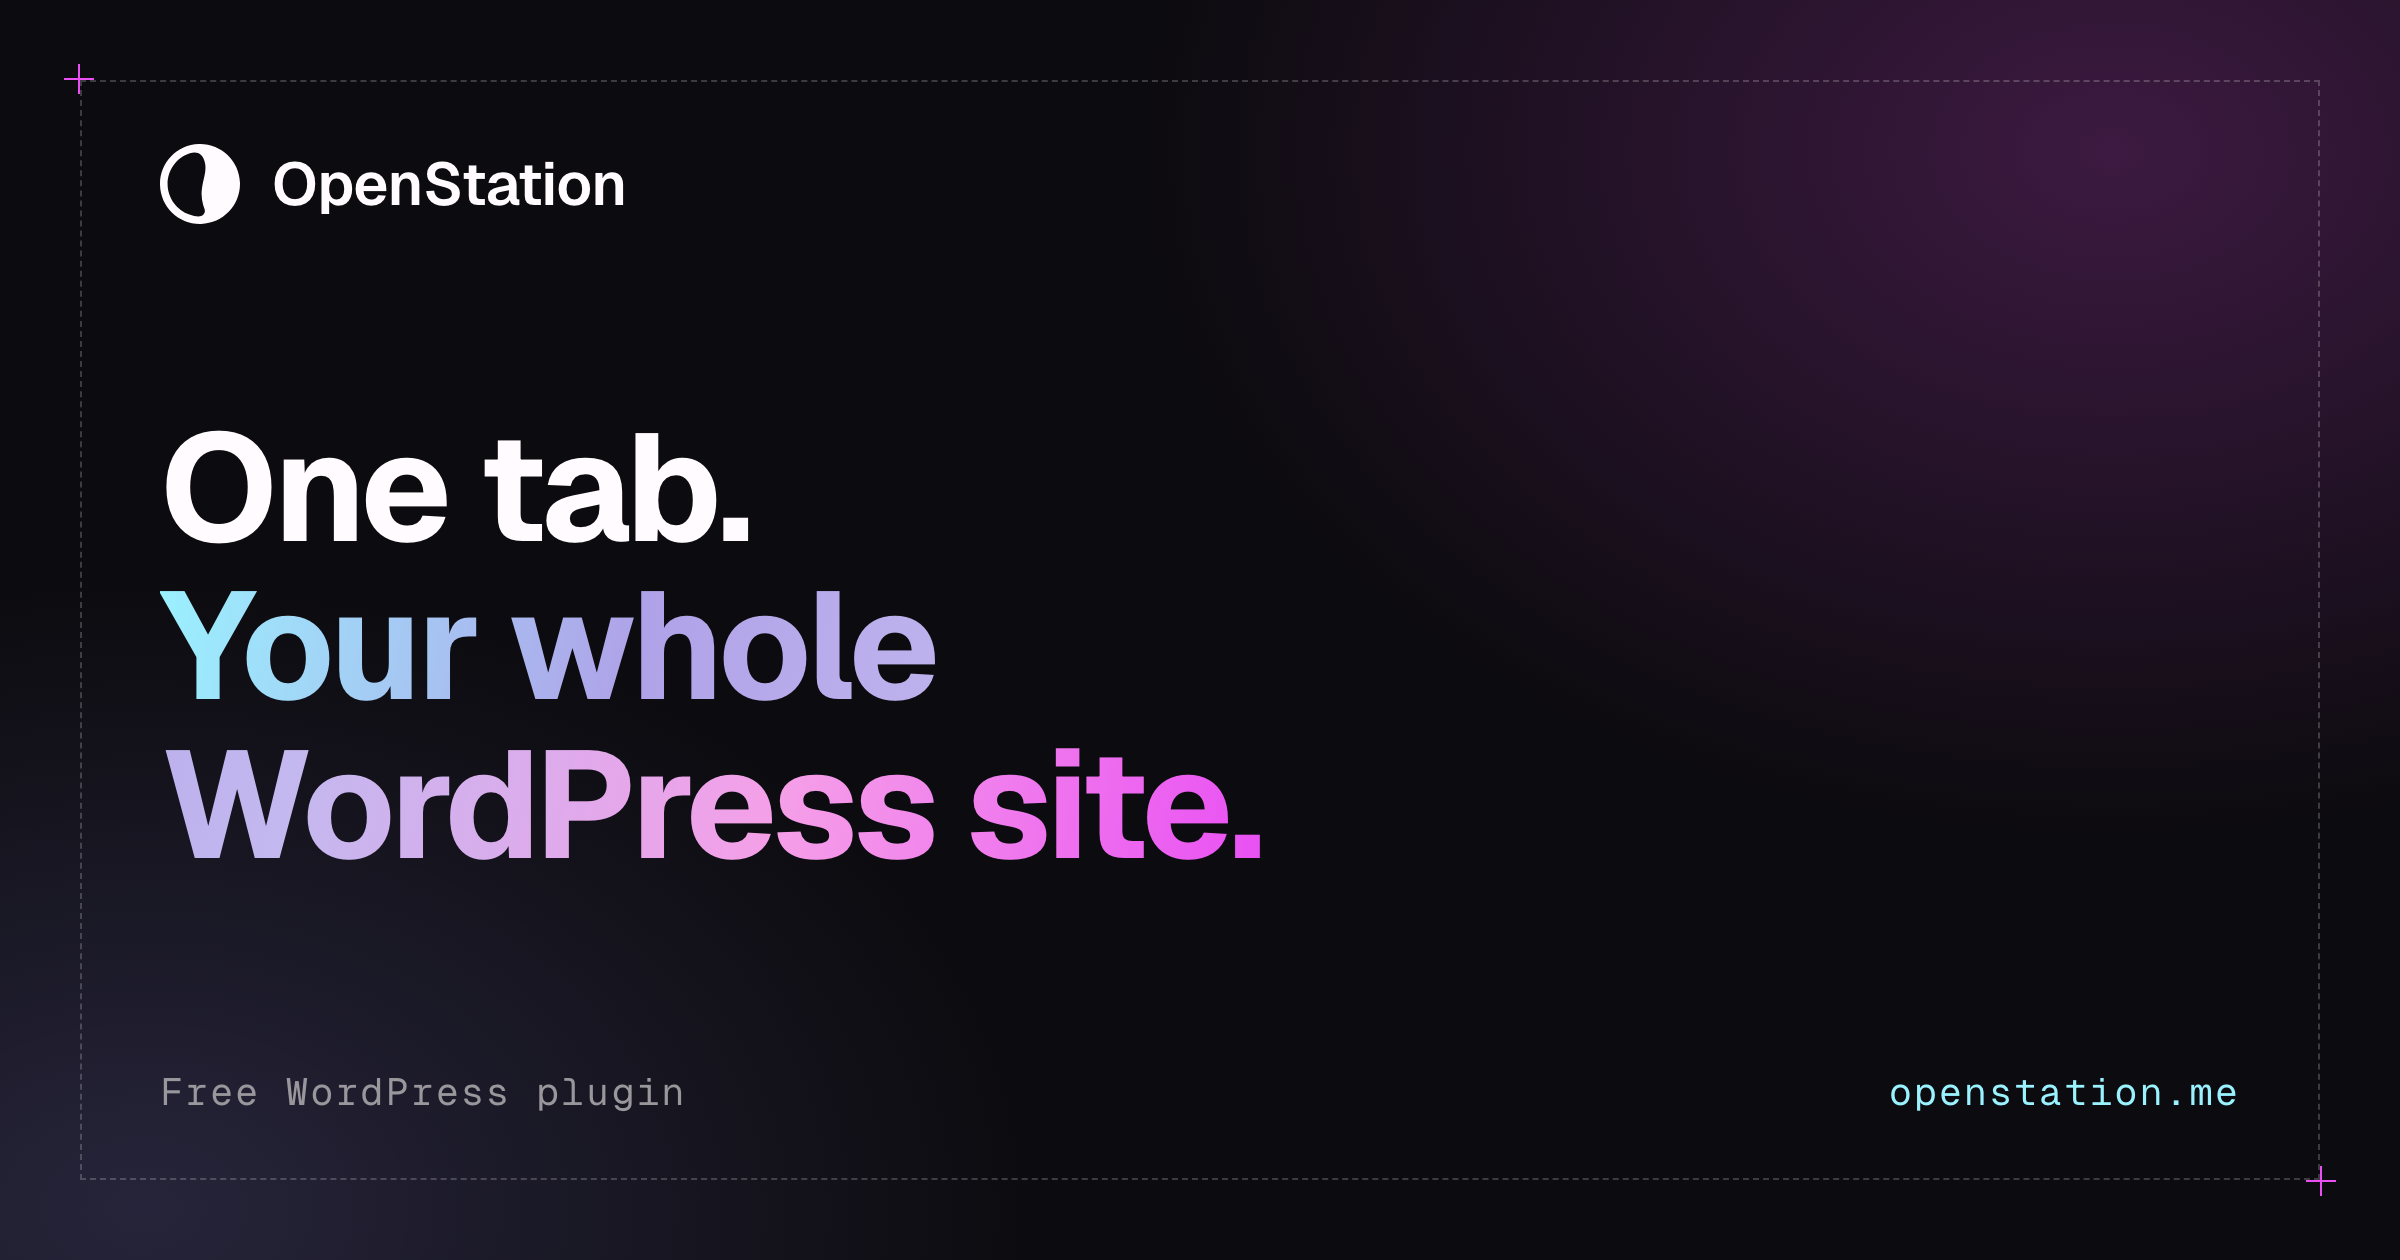
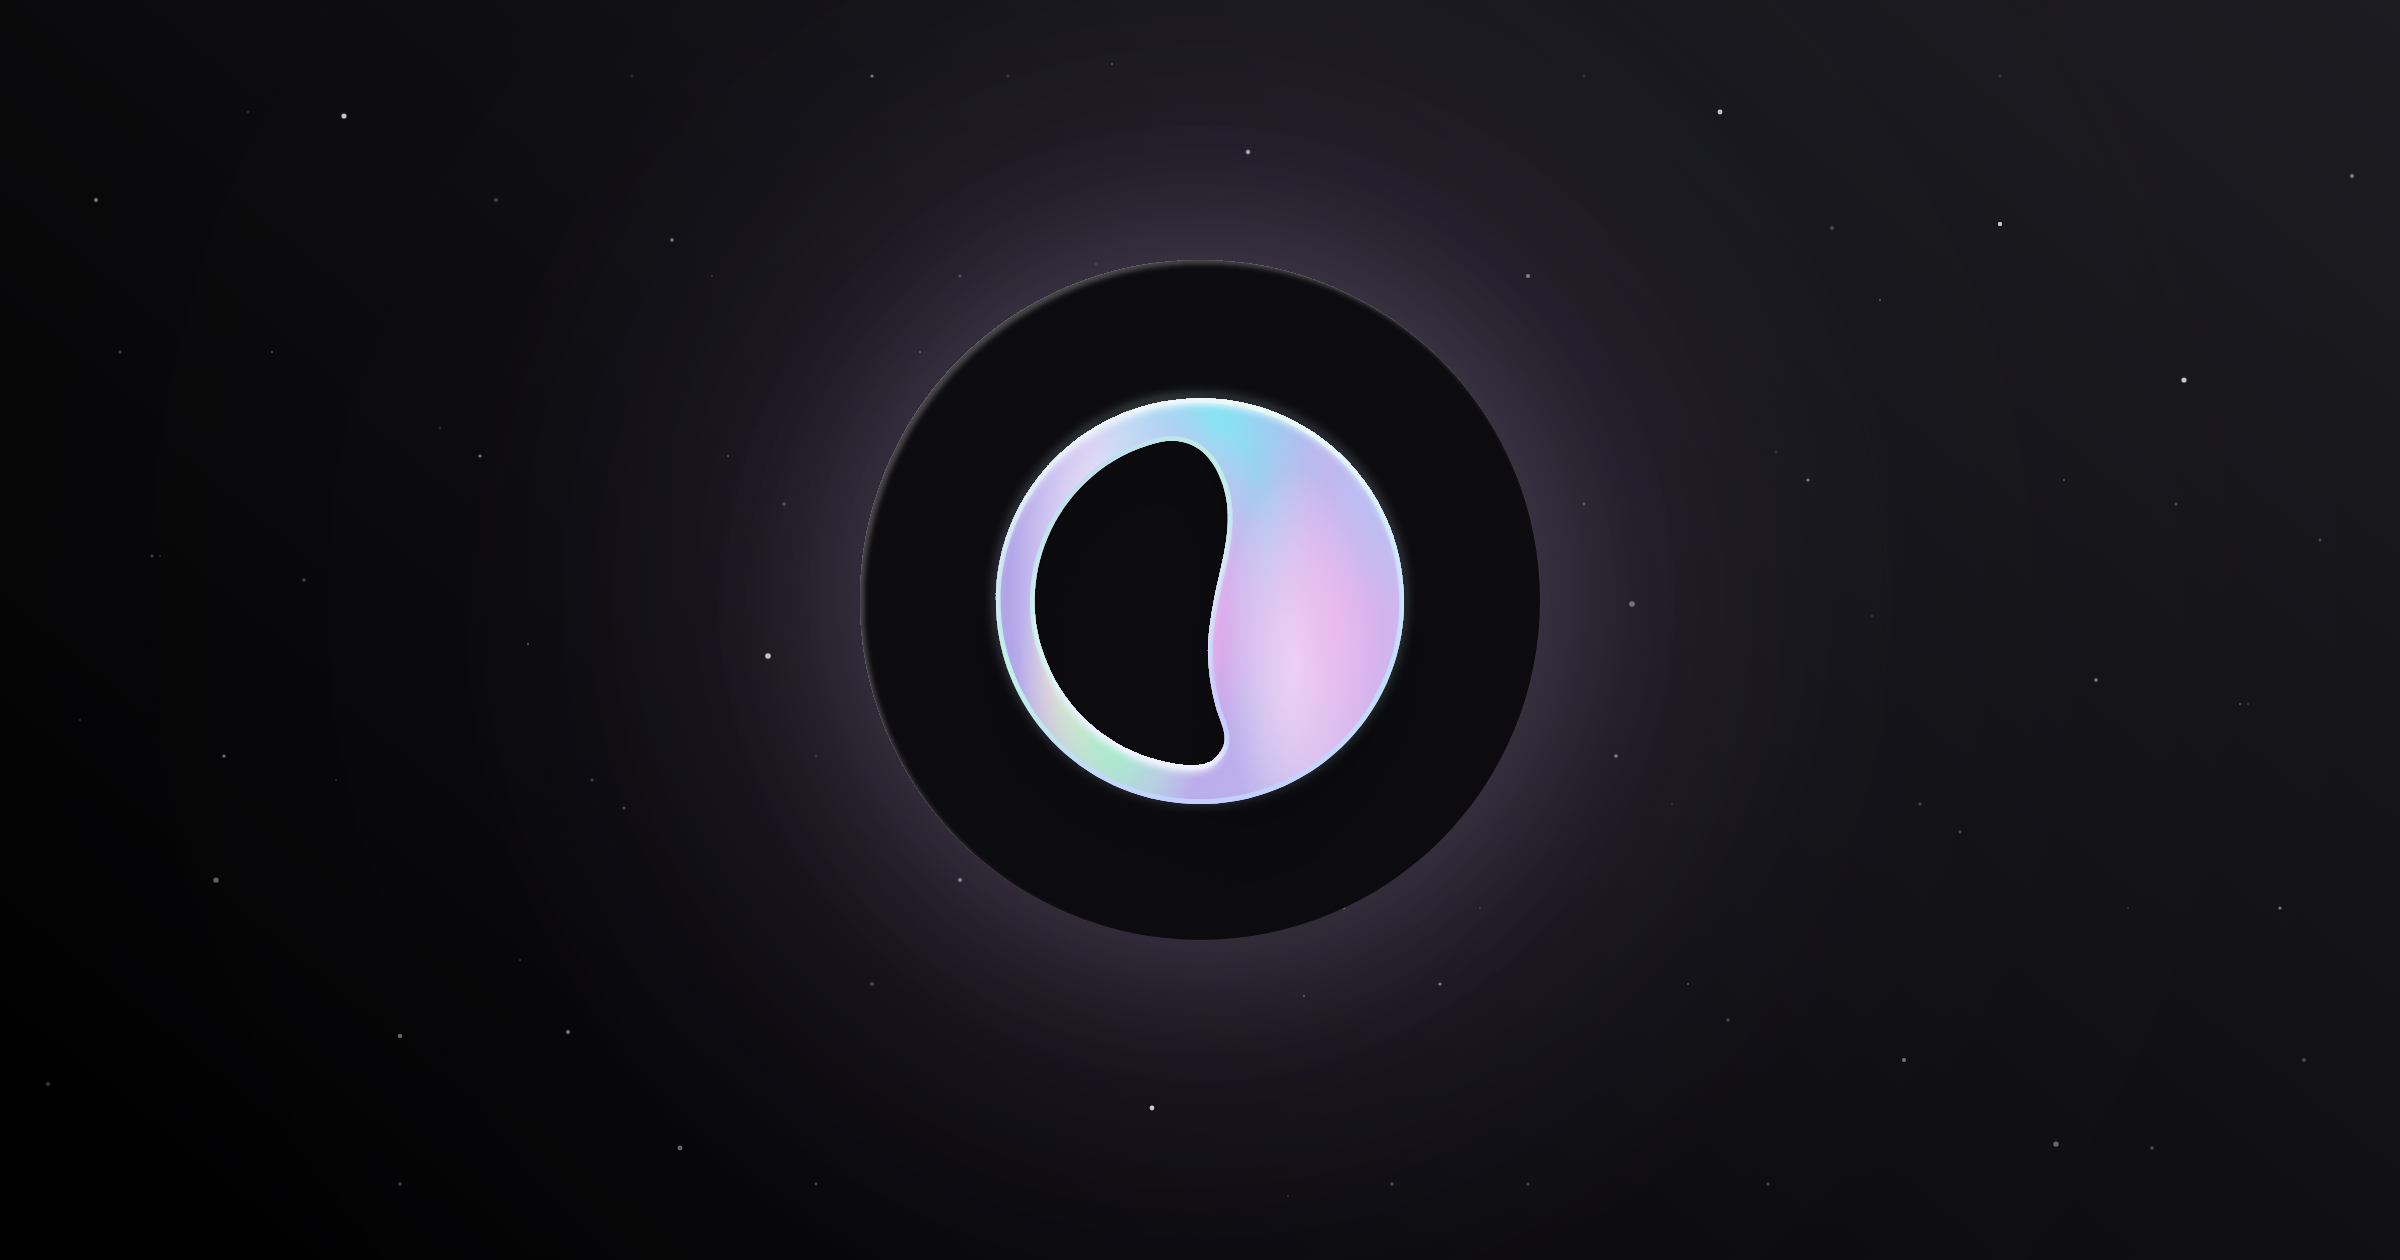
Redraw the social card as the chip alone on the galaxy
A link preview renders the image around 255px wide, and almost nothing on
the old card survived that: the 19px footer came out four pixels tall and
the 1px dashed rule a fifth of a pixel. The headline and the domain were
also both printed by the unfurl right next to the image, so half the card
was spent saying what the surrounding chrome already said.

This drops the words entirely and gives the whole frame to one big shape:
the shipped holo chip at 340px, centred on Voidmesh and a starfield, lit
from behind. The tile is opaque, so the only part of the halo that ever
shows is the ring past its edge, and that ring is what lifts it off the
background. On Void a drop shadow would do nothing.

The halo is three gaussian blurs rather than radial gradients. A gradient
interpolates linearly between its stops, so each stop is a kink the eye
reads as a faint ring; a blurred disc has none to band.

Also updates og:image:alt and twitter:image:alt, which described the old
headline rather than the picture.

diff --git a/mockups/og-card.html b/mockups/og-card.html
@@ -6,43 +6,37 @@
 <!--
   The 1200x630 social card, rendered to assets/imagery/og.png.
 
-  A source file rather than a one-off export: the headline here has to match
-  the landing page hero, and when that copy changes this can be re-rendered
-  instead of redrawn. Every colour is a brand.json token, so the card cannot
-  drift from the palette.
+  A source file rather than a one-off export: every colour is a brand.json
+  token, and the chip is the shipped asset rather than a copy, so the card
+  cannot drift from the system.
+
+  Why there is no headline on it. A link preview prints og:title and the
+  domain right next to the image, and both used to be repeated inside the
+  artwork, so half the card was spent saying what the surrounding chrome was
+  already saying. Worse, an unfurl renders this around 255px wide: at that
+  size the old card's 19px footer was four pixels tall and its 1px dashed rule
+  was a fifth of a pixel. What survives 255px is one big shape, so that is
+  what this is.
+
+  The elevation is light, not shadow. On Void a drop shadow does nothing, so
+  what lifts the chip off the background is the halo reading past its edge:
+  the tile is opaque, so the only part of the glow anyone ever sees is the
+  ring outside its silhouette.
+
+  The halo is three gaussian blurs rather than radial gradients. A gradient
+  interpolates linearly between its stops, so every stop is a kink in the
+  falloff that the eye picks up as a faint ring, and two concentric gradients
+  are worse still because the slope changes where the inner one ends. A
+  blurred disc has no stops to band, and three of them stack without a seam
+  because each is already smooth.
 
   Render:  mockups/render-og-card.sh
 -->
 <style>
-  @font-face {
-    font-family: 'Geist';
-    src: url('../fonts/Geist-Variable.woff2') format('woff2');
-    font-weight: 100 900;
-    font-display: block;
-  }
-  @font-face {
-    font-family: 'Geist Mono';
-    src: url('../fonts/GeistMono-Variable.woff2') format('woff2');
-    font-weight: 100 900;
-    font-display: block;
-  }
-
+  /* ============ Tokens (brand.json v0.7.1) ============ */
   :root {
     color-scheme: dark;
-    --pulse: #e94ff3;
-    --starlight: #fffbff;
-    --sirius: #9af2ff;
-    --lagoon: #9f98ff;
     --void: #0c0b0f;
-    --osmium: #99969c;
-    --holomesh-1: #afa2e8;
-    --holomesh-2: #b7abea;
-    --holomesh-3: #c3b8ef;
-    --holomesh-glow: #f59fe8;
-    --line: rgb(from var(--starlight) r g b / 0.11);
-    --line-dash: rgb(from var(--starlight) r g b / 0.2);
-    --font-sans: 'Geist', system-ui, sans-serif;
-    --font-mono: 'Geist Mono', ui-monospace, monospace;
   }
 
   * { margin: 0; padding: 0; box-sizing: border-box; }
@@ -58,127 +52,104 @@
     height: 630px;
     overflow: hidden;
     background: var(--void);
-    font-family: var(--font-sans);
-    color: var(--starlight);
-    -webkit-font-smoothing: antialiased;
   }
 
-  /* The card is one frame, the same dashed rule the page uses to bound a
-     section. Inset so the crop never clips it. */
-  .card {
-    position: relative;
-    width: 100%;
-    height: 100%;
-    padding: 72px 80px;
-    display: flex;
-    flex-direction: column;
-    justify-content: space-between;
-    isolation: isolate;
-  }
+  .bg { position: absolute; inset: 0; width: 100%; height: 100%; display: block; }
 
-  /* Two glows, off-canvas centres so only the falloff shows. Same trick and
-     the same two colours the hero uses behind its headline. */
-  .card::before {
-    content: '';
+  /* 340px on a 630px frame, a little over half the height. Centred at y 300
+     rather than 315, because 15px above the true middle reads as centred. */
+  .chip {
     position: absolute;
-    inset: 0;
-    z-index: -1;
-    background:
-      radial-gradient(58% 78% at 88% 12%, rgb(from var(--pulse) r g b / 0.22), transparent 70%),
-      radial-gradient(52% 70% at 6% 96%, rgb(from var(--lagoon) r g b / 0.18), transparent 72%);
+    left: 430px; top: 130px;
+    width: 340px; height: 340px;
+    display: block;
   }
-
-  /* The corner ticks, lifted from the page's section frames. */
-  .tick {
-    position: absolute;
-    width: 15px;
-    height: 15px;
-    z-index: 2;
-  }
-  .tick::before, .tick::after {
-    content: '';
-    position: absolute;
-    background: var(--pulse);
-  }
-  .tick::before { left: 0; top: 7px; width: 15px; height: 1px; }
-  .tick::after  { top: 0; left: 7px; width: 1px; height: 15px; }
-  .tick.tl { left: 32px; top: 32px; }
-  .tick.br { right: 32px; bottom: 32px; }
-
-  .rule {
-    position: absolute;
-    inset: 40px;
-    border: 1px dashed var(--line-dash);
-    z-index: 1;
-    pointer-events: none;
-  }
-
-  .lockup {
-    display: flex;
-    align-items: center;
-    gap: 16px;
-    font-size: 30px;
-    font-weight: 600;
-    letter-spacing: -0.01em;
-  }
-  .lockup svg { width: 40px; height: 40px; display: block; }
-  .lockup svg path { fill: var(--starlight); }
-
-  h1 {
-    font-size: 76px;
-    font-weight: 700;
-    line-height: 1.04;
-    letter-spacing: -0.028em;
-    max-width: 15ch;
-  }
-
-  /* The holomesh, flattened to a single linear pass. The landing page runs
-     the full eight-glow transcription because the type is animated there;
-     at thumbnail size that detail is invisible, so this keeps the same four
-     token colours and drops the machinery. */
-  .hl {
-    background: linear-gradient(
-      100deg,
-      var(--sirius) 0%,
-      var(--holomesh-1) 26%,
-      var(--holomesh-3) 48%,
-      var(--holomesh-glow) 74%,
-      var(--pulse) 100%
-    );
-    -webkit-background-clip: text;
-    background-clip: text;
-    color: transparent;
-  }
-
-  .foot {
-    display: flex;
-    align-items: baseline;
-    justify-content: space-between;
-    font-family: var(--font-mono);
-    font-size: 19px;
-    letter-spacing: 0.06em;
-    color: var(--osmium);
-  }
-  .foot .dom { color: var(--sirius); }
 </style>
 </head>
 <body>
-  <div class="card">
-    <i class="rule" aria-hidden="true"></i>
-    <i class="tick tl" aria-hidden="true"></i>
-    <i class="tick br" aria-hidden="true"></i>
+  <svg class="bg" viewBox="0 0 1200 630" role="img"
+       xmlns="http://www.w3.org/2000/svg" xmlns:xlink="http://www.w3.org/1999/xlink">
+    <title>The OpenStation chip glowing against a starfield</title>
+    <defs>
+      <!-- Voidmesh (brand.json mesh.voidmesh), reflowed to 1.905:1 -->
+      <linearGradient id="g-void" gradientUnits="userSpaceOnUse" x1="249" y1="737" x2="1027" y2="-198">
+        <stop offset="0" stop-color="#010101"/>
+        <stop offset=".585" stop-color="#111114"/>
+        <stop offset="1" stop-color="#1e1d23"/>
+      </linearGradient>
 
-    <div class="lockup">
-      <svg viewBox="0 0 80 80" aria-hidden="true"><path d="M38.792 0.0186131C60.8846 -0.649069 79.3313 16.7291 79.9824 38.8223C80.6326 60.8921 63.2773 79.3149 41.208 79.9815C19.1385 80.6488 0.702853 63.3074 0.0195305 41.2383C-0.66441 19.1462 16.6995 0.686396 38.792 0.0186131ZM38.71 9.36236C35.8339 7.89166 32.7628 8.23954 29.8555 9.28033C12.6582 14.7114 3.37017 33.8997 9.45508 50.8067C11.0384 55.2047 13.565 59.4989 16.9609 62.7842C21.6294 67.5336 27.6536 70.7223 34.2061 71.9112C37.0214 72.4165 41.0083 73.0707 43.2295 70.7891C46.4143 67.5174 44.115 64.4383 43.1133 60.8419C42.137 57.2757 41.6165 53.6009 41.5635 49.9044C41.5398 46.776 42.201 42.473 42.8252 39.3565C44.2979 32.0039 46.892 24.7246 44.5537 17.2452C43.5137 14.0551 41.8086 10.9469 38.71 9.36236Z"/></svg>
-      OpenStation
-    </div>
+      <!-- Starfield for a 1200 x 630 field. Three depths. -->
+      <symbol id="os-stars" viewBox="0 0 1200 630">
+        <g fill="#fffbff" opacity=".85">
+          <circle cx="172" cy="58" r="1.3"/><circle cx="384" cy="328" r="1.4"/>
+          <circle cx="668" cy="290" r="1.3"/><circle cx="860" cy="56" r="1.2"/>
+          <circle cx="1092" cy="190" r="1.3"/><circle cx="1000" cy="112" r="1.1"/>
+          <circle cx="576" cy="554" r="1.2"/>
+        </g>
+        <g fill="#fffbff" opacity=".5">
+          <circle cx="48" cy="100" r="1"/><circle cx="112" cy="378" r=".8"/>
+          <circle cx="240" cy="228" r=".8"/><circle cx="284" cy="516" r="1"/>
+          <circle cx="336" cy="120" r=".9"/><circle cx="436" cy="38" r=".8"/>
+          <circle cx="480" cy="440" r="1"/><circle cx="528" cy="176" r=".8"/>
+          <circle cx="624" cy="76" r=".9"/><circle cx="720" cy="492" r=".8"/>
+          <circle cx="764" cy="138" r="1"/><circle cx="808" cy="378" r=".9"/>
+          <circle cx="904" cy="240" r=".8"/><circle cx="952" cy="530" r="1"/>
+          <circle cx="1048" cy="340" r=".9"/><circle cx="1140" cy="454" r=".8"/>
+          <circle cx="1176" cy="88" r="1"/>
+        </g>
+        <g fill="#fffbff" opacity=".28">
+          <circle cx="76" cy="278" r=".7"/><circle cx="200" cy="592" r=".9"/>
+          <circle cx="312" cy="404" r=".8"/><circle cx="408" cy="592" r=".7"/>
+          <circle cx="504" cy="296" r=".7"/><circle cx="604" cy="378" r=".8"/>
+          <circle cx="696" cy="592" r=".9"/><circle cx="792" cy="252" r=".7"/>
+          <circle cx="884" cy="592" r=".8"/><circle cx="980" cy="416" r=".7"/>
+          <circle cx="1076" cy="574" r=".9"/><circle cx="1160" cy="270" r=".7"/>
+          <circle cx="136" cy="176" r=".6"/><circle cx="264" cy="322" r=".6"/>
+          <circle cx="364" cy="228" r=".6"/><circle cx="460" cy="176" r=".6"/>
+          <circle cx="556" cy="32" r=".6"/><circle cx="652" cy="498" r=".6"/>
+          <circle cx="748" cy="378" r=".6"/><circle cx="844" cy="492" r=".6"/>
+          <circle cx="940" cy="150" r=".6"/><circle cx="1032" cy="240" r=".6"/>
+          <circle cx="1120" cy="352" r=".6"/>
+        </g>
+      </symbol>
 
-    <h1>One tab.<br><span class="hl">Your whole WordPress site.</span></h1>
+      <!-- The halo. color-interpolation-filters is sRGB on purpose: the
+           default is linearRGB, which lightens a blur noticeably and is not
+           what the levels below assume. -->
+      <filter id="f-halo-rim" x="-200%" y="-200%" width="500%" height="500%" color-interpolation-filters="sRGB">
+        <feGaussianBlur stdDeviation="34"/>
+      </filter>
+      <filter id="f-halo-bloom" x="-200%" y="-200%" width="500%" height="500%" color-interpolation-filters="sRGB">
+        <feGaussianBlur stdDeviation="88"/>
+      </filter>
+      <filter id="f-halo-amb" x="-200%" y="-200%" width="500%" height="500%" color-interpolation-filters="sRGB">
+        <feGaussianBlur stdDeviation="193"/>
+      </filter>
+    </defs>
 
-    <div class="foot">
-      <span>Free WordPress plugin</span>
-      <span class="dom">openstation.me</span>
-    </div>
-  </div>
+    <rect width="1200" height="630" fill="url(#g-void)"/>
+
+    <!-- the starfield twice, the second copy turned 180 degrees so the field
+         reads denser without a second set of coordinates -->
+    <use xlink:href="#os-stars" width="1200" height="630" opacity=".9"/>
+    <use xlink:href="#os-stars" width="1200" height="630" opacity=".45"
+         transform="translate(1200 630) rotate(180)"/>
+
+    <!-- Three blurred discs, widest first: a very wide ambient that keeps the
+         corners off flat black, a mid bloom, and a tight rim that hugs the
+         chip. Levels are picked at the chip's edge, 170px out, where a disc of
+         radius R blurred by sigma s still reads at about
+         0.5(1 + erf((R - 170) / (s * sqrt2))) of its own opacity. That comes
+         to 0.045 + 0.10 + 0.066, so about a fifth of full strength right at
+         the rim, falling to well under one percent by the corners. -->
+    <circle cx="600" cy="300" r="340" fill="#9f98ff" opacity=".055" filter="url(#f-halo-amb)"/>
+    <circle cx="600" cy="300" r="221" fill="#ec9bff" opacity=".14" filter="url(#f-halo-bloom)"/>
+    <circle cx="600" cy="300" r="184" fill="#fffbff" opacity=".10" filter="url(#f-halo-rim)"/>
+  </svg>
+
+  <!-- The shipped asset, not a copy: brand.json's chip rule says the mark
+       sits on its Void app tile in every product reference, and the tile's
+       baked halo ring, edge stroke and inner highlight come with it. -->
+  <img class="chip" src="../assets/logomark-app-circle-holo.svg" alt="">
 </body>
 </html>

diff --git a/mockups/landing_v1.html b/mockups/landing_v1.html
@@ -10,7 +10,10 @@
 <!-- Social cards. Absolute URLs on purpose: scrapers do not resolve relative
      paths, and they point at openstation.me because that is where this page
      lives, not at whatever host is previewing it. The image is
-     mockups/og-card.html, rendered by mockups/render-og-card.sh. -->
+     mockups/og-card.html, rendered by mockups/render-og-card.sh. It carries
+     no words: og:title and the domain are printed next to the image by every
+     unfurl, so repeating them inside the artwork spent the pixels twice. The
+     alt text describes the picture rather than restating the title. -->
 <meta property="og:type" content="website">
 <meta property="og:site_name" content="OpenStation">
 <meta property="og:url" content="https://openstation.me/">
@@ -19,12 +22,12 @@
 <meta property="og:image" content="https://openstation.me/assets/imagery/og.png">
 <meta property="og:image:width" content="2400">
 <meta property="og:image:height" content="1260">
-<meta property="og:image:alt" content="OpenStation: one tab, your whole WordPress site.">
+<meta property="og:image:alt" content="The OpenStation logomark, a holographic crescent on a dark round tile, glowing against a starfield.">
 <meta name="twitter:card" content="summary_large_image">
 <meta name="twitter:title" content="One tab. Your whole WordPress site.">
 <meta name="twitter:description" content="A free WordPress plugin that gives wp-admin real windows, a dock, and virtual desktops. Open every admin screen at once and keep your layout where you left it.">
 <meta name="twitter:image" content="https://openstation.me/assets/imagery/og.png">
-<meta name="twitter:image:alt" content="OpenStation: one tab, your whole WordPress site.">
+<meta name="twitter:image:alt" content="The OpenStation logomark, a holographic crescent on a dark round tile, glowing against a starfield.">
 <!-- Favicon: the round chip (../assets/logomark-app-circle.svg) -->
 <link rel="icon" type="image/svg+xml" href="../assets/logomark-app-circle.svg">
 <link rel="icon" type="image/png" sizes="180x180" href="../assets/favicon.png">
